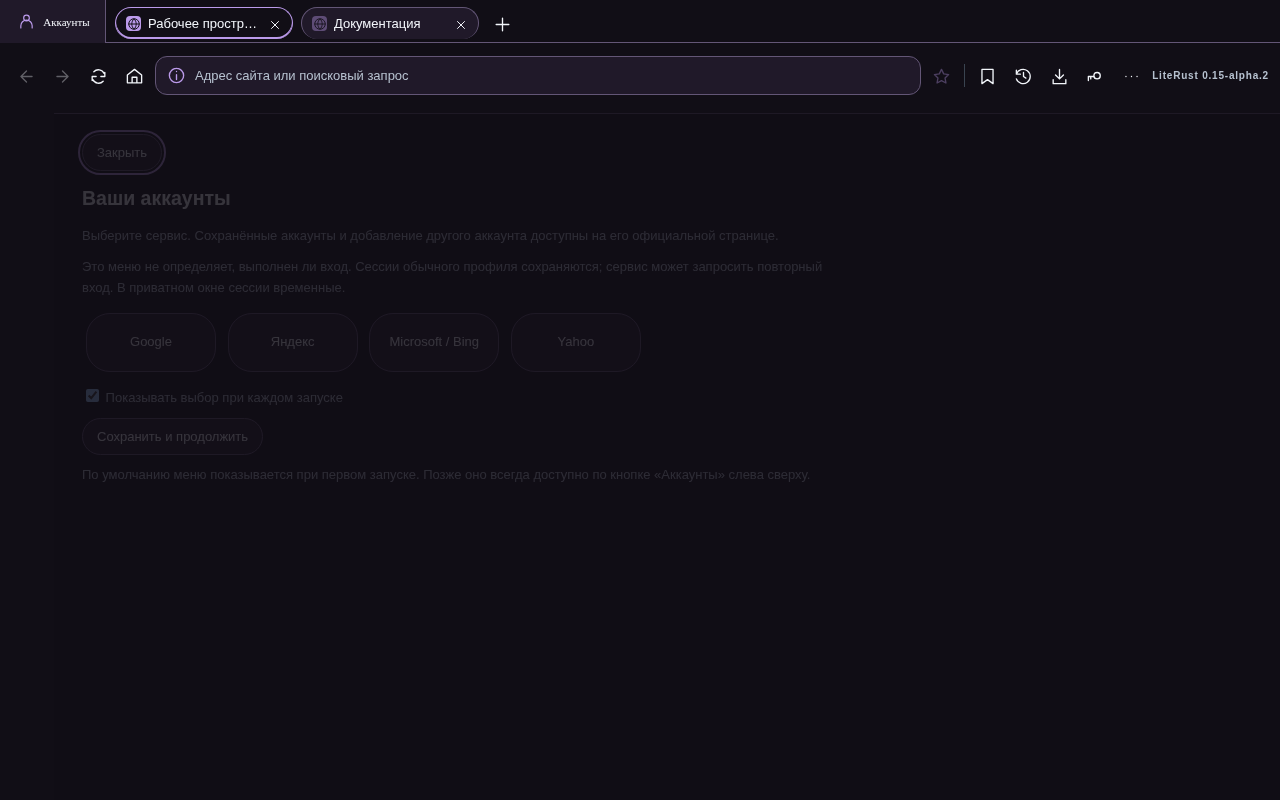
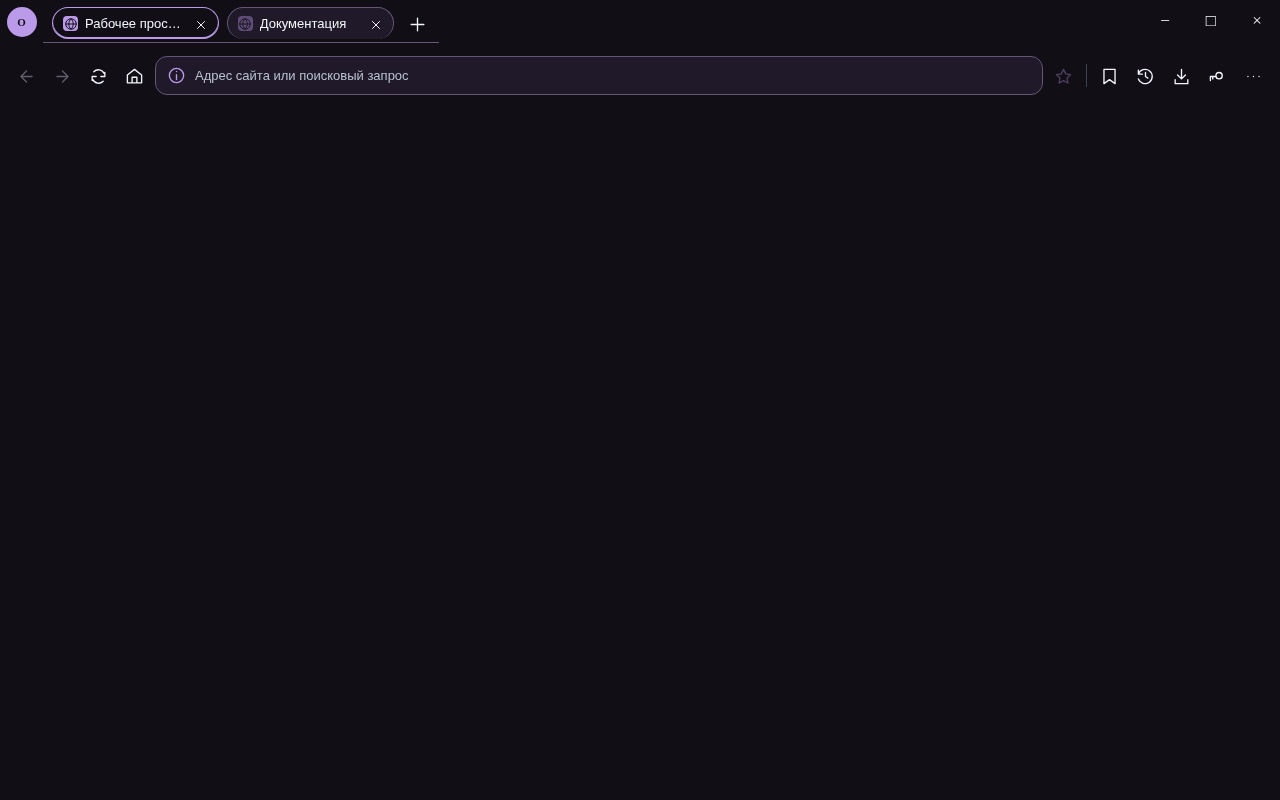
Prepare 0.16 release with native frame, session isolation tests and measured benchmark

diff --git a/ui/toolbar.html b/ui/toolbar.html
@@ -127,7 +127,7 @@ html,body{height:100%;width:100%;margin:0;overflow:hidden;background:var(--bg);c
 <p><label><input id="browser-background_links" type="checkbox"> Открывать новые ссылки в фоне</label></p>
 <p><label>Масштаб страниц <select id="browser-zoom_percent"><option>50</option><option>75</option><option>90</option><option>100</option><option>110</option><option>125</option><option>150</option><option>175</option><option>200</option></select> %</label></p>
 <p><label><input id="browser-history_enabled" type="checkbox"> Записывать историю посещений</label></p><small>Выключение не удаляет старую историю и не включает приватный режим: вкладки и данные сайтов сохраняются.</small>
-<p><button id="save-browser-settings">Сохранить настройки браузера</button><button id="reset-browser-settings">Сбросить настройки браузера</button></p><small id="browser-settings-status" role="status"></small></article><article data-category="search"><h3>Поиск из адресной строки</h3><p>Выберите сервис для запросов из адресной строки и новой вкладки.</p><label for="search-engine">Поисковая система</label><select id="search-engine" style="padding:10px;border-radius:10px;background:var(--surface);color:var(--text);border:1px solid var(--line)"><option value="google">Google</option><option value="yandex">Яндекс</option><option value="duckduckgo">DuckDuckGo</option><option value="bing">Bing</option><option value="brave">Brave Search</option></select><small>Поисковик не меняет движок WebView2 и доверие TLS-сертификатам.</small></article><article data-category="privacy"><h3>История и данные сайтов</h3><button class="settings-action-row" data-menu="clear-history"><span><strong>Очистить историю</strong><small>Удаление записей после подтверждения</small></span><span data-icon="chevron"></span></button><button class="settings-action-row" data-menu="clear-site-data"><span><strong>Очистить cookies и кэш</strong><small>Вы выйдете из аккаунтов сайтов</small></span><span data-icon="chevron"></span></button><button class="settings-action-row" data-menu="new-private-window"><span><strong>Открыть приватное окно</strong><small>Отдельная временная сессия</small></span><span data-icon="chevron"></span></button><p>Для отключения записи истории откройте раздел «Запуск и вкладки».</p></article><article data-category="privacy"><h3>Фильтрация рекламы</h3><button data-menu="toggle-network-blocking">Сетевой фильтр</button><button data-menu="toggle-cosmetic-filter">Косметический фильтр</button><small>Экспериментальные функции. Могут влиять на работу некоторых сайтов.</small></article><article data-category="performance"><h3>Управление памятью</h3><button data-menu="cycle-memory-mode">Бюджет памяти</button><button data-menu="toggle-auto-discard">Автовыгрузка вкладок</button><button data-menu="discard-background">Освободить память</button><p>Автовыгрузка отключена по умолчанию. Выгруженные страницы могут потерять несохранённые формы и воспроизведение.</p><p id="settings-performance-state" role="status"></p></article><article data-category="network"><h3>Подключение через VPN</h3><p>Управляйте серверами и областью подключения в VPN-хабе.</p><button id="settings-vpn">Открыть VPN-хаб</button></article><article data-category="network"><h3>Российские TLS-сертификаты</h3><p>Смена поисковика не меняет доверие сертификатам. LiteRust использует WebView2 и проверку сертификатов Windows. Для сайта медицинской аттестации может потребоваться установка официальных корневых сертификатов в Windows.</p><p>Установка корневого сертификата расширяет доверие всей системы. Используйте только официальный источник и проверьте сведения об издателе.</p><button id="tls-help">Инструкции Госуслуг</button><button id="medical-site">Открыть сайт аттестации напрямую</button><p>LiteRust не отключает проверку TLS. Если ошибка остаётся, проверьте дату Windows и обратитесь в поддержку сайта.</p></article><article data-category="appearance"><h3>Боковая панель</h3><label for="sidebar-mode">Как открывать</label><select id="sidebar-mode"><option value="click">По нажатию</option><option value="hover">При наведении</option><option value="pinned">Закрепить</option></select><label for="sidebar-width">Ширина раскрытой панели</label><input id="sidebar-width" type="range" min="220" max="320" step="4"><output id="sidebar-width-value"></output><p>Временная шторка накладывается на страницу. Закреплённая панель занимает отдельное место. Раскрытие доступно слева и справа.</p><div id="sidebar-items"></div><button id="sidebar-reset">Сбросить панель</button></article><article data-category="icons"><h3>Свои иконки</h3><label for="icon-target">Что изменить</label><select id="icon-target" style="width:100%"><option value="app">LiteRust в Windows</option><option value="site">Сайт на новой вкладке</option></select><p><input id="icon-site" type="url" placeholder="Точный адрес закладки https://…" style="width:100%"></p><input id="icon-file" type="file" accept="image/png,image/jpeg,image/webp"><p><img id="icon-preview" width="48" height="48" alt="Предпросмотр значка" hidden></p><button id="icon-reset">Стандартный значок</button><small id="icon-status" role="status">PNG, JPEG или WebP · до 5 МБ · до 32 значков</small></article><article data-category="shortcuts"><h3>Ваши сочетания клавиш</h3><p>Нажмите «Изменить», затем нужные клавиши. Можно использовать Ctrl, Alt, Shift и F1–F12. Esc отменяет запись. Системные сочетания Windows и команды копирования/вставки не переназначаются.</p><label for="shortcut-search">Найти команду</label><input id="shortcut-search" type="search" placeholder="Например: вкладка или Ctrl+T"><p id="shortcut-status" role="status" aria-live="polite">Изменения действуют во всех вкладках этого окна и сохраняются для следующего запуска.</p><div id="shortcut-list"></div><button id="shortcut-reset-all">Восстановить стандартные сочетания</button></article><article data-category="about"><h3>LiteRust 0.15.0-alpha.4</h3><p>Экспериментальный браузер для Windows на Rust и Microsoft WebView2.</p><button id="settings-release">Открыть выпуски на GitHub</button><small>Версия установщика указана в описании выпуска. Обновление выполняется запуском нового установщика.</small></article></div><div id="settings-pending" hidden><span>Есть несохранённые настройки запуска.</span><button id="settings-back-to-draft">Вернуться к ним</button></div></div></div></section>
+<p><button id="save-browser-settings">Сохранить настройки браузера</button><button id="reset-browser-settings">Сбросить настройки браузера</button></p><small id="browser-settings-status" role="status"></small></article><article data-category="search"><h3>Поиск из адресной строки</h3><p>Выберите сервис для запросов из адресной строки и новой вкладки.</p><label for="search-engine">Поисковая система</label><select id="search-engine" style="padding:10px;border-radius:10px;background:var(--surface);color:var(--text);border:1px solid var(--line)"><option value="google">Google</option><option value="yandex">Яндекс</option><option value="duckduckgo">DuckDuckGo</option><option value="bing">Bing</option><option value="brave">Brave Search</option></select><small>Поисковик не меняет движок WebView2 и доверие TLS-сертификатам.</small></article><article data-category="privacy"><h3>История и данные сайтов</h3><button class="settings-action-row" data-menu="clear-history"><span><strong>Очистить историю</strong><small>Удаление записей после подтверждения</small></span><span data-icon="chevron"></span></button><button class="settings-action-row" data-menu="clear-site-data"><span><strong>Очистить cookies и кэш</strong><small>Вы выйдете из аккаунтов сайтов</small></span><span data-icon="chevron"></span></button><button class="settings-action-row" data-menu="new-private-window"><span><strong>Открыть приватное окно</strong><small>Отдельная временная сессия</small></span><span data-icon="chevron"></span></button><p>Для отключения записи истории откройте раздел «Запуск и вкладки».</p></article><article data-category="privacy"><h3>Фильтрация рекламы</h3><button data-menu="toggle-network-blocking">Сетевой фильтр</button><button data-menu="toggle-cosmetic-filter">Косметический фильтр</button><small>Экспериментальные функции. Могут влиять на работу некоторых сайтов.</small></article><article data-category="performance"><h3>Управление памятью</h3><button data-menu="cycle-memory-mode">Бюджет памяти</button><button data-menu="toggle-auto-discard">Автовыгрузка вкладок</button><button data-menu="discard-background">Освободить память</button><p>Автовыгрузка отключена по умолчанию. Выгруженные страницы могут потерять несохранённые формы и воспроизведение.</p><p id="settings-performance-state" role="status"></p></article><article data-category="network"><h3>Подключение через VPN</h3><p>Управляйте серверами и областью подключения в VPN-хабе.</p><button id="settings-vpn">Открыть VPN-хаб</button></article><article data-category="network"><h3>Российские TLS-сертификаты</h3><p>Смена поисковика не меняет доверие сертификатам. LiteRust использует WebView2 и проверку сертификатов Windows. Для сайта медицинской аттестации может потребоваться установка официальных корневых сертификатов в Windows.</p><p>Установка корневого сертификата расширяет доверие всей системы. Используйте только официальный источник и проверьте сведения об издателе.</p><button id="tls-help">Инструкции Госуслуг</button><button id="medical-site">Открыть сайт аттестации напрямую</button><p>LiteRust не отключает проверку TLS. Если ошибка остаётся, проверьте дату Windows и обратитесь в поддержку сайта.</p></article><article data-category="appearance"><h3>Боковая панель</h3><label for="sidebar-mode">Как открывать</label><select id="sidebar-mode"><option value="click">По нажатию</option><option value="hover">При наведении</option><option value="pinned">Закрепить</option></select><label for="sidebar-width">Ширина раскрытой панели</label><input id="sidebar-width" type="range" min="220" max="320" step="4"><output id="sidebar-width-value"></output><p>Временная шторка накладывается на страницу. Закреплённая панель занимает отдельное место. Раскрытие доступно слева и справа.</p><div id="sidebar-items"></div><button id="sidebar-reset">Сбросить панель</button></article><article data-category="icons"><h3>Свои иконки</h3><label for="icon-target">Что изменить</label><select id="icon-target" style="width:100%"><option value="app">LiteRust в Windows</option><option value="site">Сайт на новой вкладке</option></select><p><input id="icon-site" type="url" placeholder="Точный адрес закладки https://…" style="width:100%"></p><input id="icon-file" type="file" accept="image/png,image/jpeg,image/webp"><p><img id="icon-preview" width="48" height="48" alt="Предпросмотр значка" hidden></p><button id="icon-reset">Стандартный значок</button><small id="icon-status" role="status">PNG, JPEG или WebP · до 5 МБ · до 32 значков</small></article><article data-category="shortcuts"><h3>Ваши сочетания клавиш</h3><p>Нажмите «Изменить», затем нужные клавиши. Можно использовать Ctrl, Alt, Shift и F1–F12. Esc отменяет запись. Системные сочетания Windows и команды копирования/вставки не переназначаются.</p><label for="shortcut-search">Найти команду</label><input id="shortcut-search" type="search" placeholder="Например: вкладка или Ctrl+T"><p id="shortcut-status" role="status" aria-live="polite">Изменения действуют во всех вкладках этого окна и сохраняются для следующего запуска.</p><div id="shortcut-list"></div><button id="shortcut-reset-all">Восстановить стандартные сочетания</button></article><article data-category="about"><h3>LiteRust 0.16.0-alpha.1</h3><p>Экспериментальный браузер для Windows на Rust и Microsoft WebView2.</p><button id="settings-release">Открыть выпуски на GitHub</button><small>Версия установщика указана в описании выпуска. Обновление выполняется запуском нового установщика.</small></article></div><div id="settings-pending" hidden><span>Есть несохранённые настройки запуска.</span><button id="settings-back-to-draft">Вернуться к ним</button></div></div></div></section>
 <section id="vpn" class="hub-panel vpn-workspace" hidden aria-label="VPN-хаб">
 <div class="vpn-servers">
   <div class="vpn-title"><div><span class="eyebrow">LITERUST / VPN</span><h2>Серверы</h2></div><button id="vpn-open-import" title="Добавить ключ или подписку" aria-label="Добавить серверы">＋</button></div>
@@ -248,7 +248,7 @@ function render(){
   document.getElementById('history').title=`История (${state.history})`;
   document.getElementById('downloads').title=`Загрузки (${state.downloads})`;
   const mark=document.getElementById('mode-badge');
-  mark.textContent=state.private_mode?'ПРИВАТНО':'LiteRust 0.15-alpha.4';
+  mark.textContent=state.private_mode?'ПРИВАТНО':'LiteRust 0.16-alpha.1';
   mark.classList.toggle('private',Boolean(state.private_mode));
   document.getElementById('toggle-network-blocking').textContent='Сетевой AdBlock (ограниченные правила): '+(state.network_blocking?'вкл.':'выкл.');
   document.getElementById('toggle-auto-discard').textContent='Автовыгрузка (потеря форм): '+(state.auto_discard?'вкл.':'выкл.');
@@ -310,7 +310,7 @@ document.getElementById('google-passwords').onclick=openGooglePasswords;
 document.getElementById('google-passwords-menu').onclick=openGooglePasswords;
 document.getElementById('google-passwords-info').onclick=()=>{
   menu.classList.remove('open');
-  alert('Google Password Manager: официальный сайт passwords.google.com можно открывать в любом браузере.\n\nВ LiteRust 0.15-alpha.4 кнопка открывает Google Password Manager во внешнем браузере. Пароли остаются в Google.\n\nВажно: Google пока не предоставляет публичный API, позволяющий LiteRust автоматически заполнять пароли из Google на произвольных сайтах. WebView2 не имеет доступа к хранилищу Chrome. Наша программа не читает, не копирует и не хранит пароли Google.');
+  alert('Google Password Manager: официальный сайт passwords.google.com можно открывать в любом браузере.\n\nВ LiteRust 0.16-alpha.1 кнопка открывает Google Password Manager во внешнем браузере. Пароли остаются в Google.\n\nВажно: Google пока не предоставляет публичный API, позволяющий LiteRust автоматически заполнять пароли из Google на произвольных сайтах. WebView2 не имеет доступа к хранилищу Chrome. Наша программа не читает, не копирует и не хранит пароли Google.');
 };
 document.getElementById('export-bookmarks').onclick=()=>{
   menu.classList.remove('open');
@@ -425,7 +425,7 @@ function updateHub(){
   document.getElementById('vpn-import-note').textContent=enabled?'Для замены списка серверов сначала отключите VPN.':state.private_mode?'Изменяйте ключи в обычном окне.':'Ключи защищены учётной записью Windows. После импорта поле очищается.';
   document.getElementById('vpn-connect').disabled=!nodes.length||busy||state.private_mode;
   document.getElementById('vpn-disconnect').disabled=!enabled||busy||state.private_mode;
-  document.getElementById('profile-account').title=state.private_mode?'Постоянный аккаунт доступен в обычном окне':'Открыть меню аккаунтов';
+  document.getElementById('profile-account').title=state.private_mode?'Приватное окно':'Локальный профиль: '+currentLocalProfile().name;
 }
 document.getElementById('vpn-import').onclick=()=>{const field=document.getElementById('vpn-key');const value=field.value.trim();if(!value)return;if(new TextEncoder().encode(value).length>1048576){window.browserNotice('Слишком большой список');return;}send('vpn_import',{value,kind:document.getElementById('vpn-input-kind').value});field.value='';document.getElementById('vpn-import-dialog').hidden=true;};
 function applyVpn(enabled){if(confirm('Перезапустить LiteRust для изменения VPN? Несохранённые формы будут потеряны. Завершите загрузки и закройте другие окна LiteRust.'))send('vpn_apply',{enabled,system:document.getElementById('vpn-scope').value==='system',selected:Number(document.getElementById('vpn-server').value)||0});}

diff --git a/ui/dock.html b/ui/dock.html
@@ -17,7 +17,7 @@ body.motion-off *{animation:none!important;transition:none!important}.ui-icon{wi
 <button data-action="show_settings" title="Настройки" aria-label="Настройки"><span data-icon="settings"></span></button>
 </nav><script>
 /* APPEARANCE_SCRIPT */
-function send(action,data={}){window.ipc?.postMessage(JSON.stringify({action,...data}));}
+function send(action,data={}){if(action==='dock_expanded')data.animate=!document.body.classList.contains('motion-off')&&!matchMedia('(prefers-reduced-motion:reduce)').matches;window.ipc?.postMessage(JSON.stringify({action,...data}));}
 document.querySelectorAll('[data-action]').forEach(b=>b.onclick=()=>send(b.dataset.action));
 let sidebarState={mode:'click',width:264,order:[],hidden:[]},expanded=false,hoverTimer;
 const nav=document.querySelector('nav');

diff --git a/src/main.rs b/src/main.rs
@@ -1,4 +1,4 @@
-//! LiteRust Browser 0.15-alpha.4: per-site network-filter exceptions, permission prompts,
+//! LiteRust Browser 0.16-alpha.1: per-site network-filter exceptions, permission prompts,
 //! URL hygiene and low-memory background views. Web rendering is Edge WebView2.
 #![cfg_attr(not(debug_assertions), windows_subsystem = "windows")]
 
@@ -85,6 +85,8 @@ enum UiCommand {
     },
     DockExpanded {
         open: bool,
+        #[serde(default)]
+        animate: bool,
     },
     ProfileCreate {
         name: String,
@@ -326,7 +328,15 @@ struct LivePage {
     loading: bool,
 }
 
+struct DrawerAnimation {
+    from: f64,
+    to: f64,
+    started: std::time::Instant,
+}
+
 struct Browser {
+    dock_animation: Option<DrawerAnimation>,
+    dock_width: std::cell::Cell<f64>,
     dock_expanded: bool,
     local_profiles: literust_browser::local_profiles::Catalog,
     shortcuts: std::rc::Rc<std::cell::RefCell<literust_browser::shortcuts::Runtime>>,
@@ -381,6 +391,8 @@ impl Browser {
             .saturating_add(1)
             .max(1);
         Self {
+            dock_animation: None,
+            dock_width: std::cell::Cell::new(54.0),
             dock_expanded: false,
             local_profiles: literust_browser::local_profiles::Catalog::load(&app_root())
                 .unwrap_or_default(),
@@ -1150,15 +1162,45 @@ impl Browser {
                 }
             }
             UiCommand::SetSidebar { value } => {
+                self.dock_animation = None;
                 self.data.sidebar = value.validated();
                 self.dock_expanded = false;
                 self.persist();
                 self.resize();
                 self.sync_toolbar();
             }
-            UiCommand::DockExpanded { open } => {
+            UiCommand::DockExpanded { open, animate } => {
                 self.dock_expanded = open;
-                self.resize();
+                let (bounds, _) = self.layout_bounds();
+                let target = bounds
+                    .size
+                    .to_logical::<f64>(self.window.scale_factor())
+                    .width;
+                if animate
+                    && self.data.customization.animations
+                    && matches!(
+                        self.data.dock_position,
+                        layout::DockPosition::Left | layout::DockPosition::Right
+                    )
+                {
+                    self.dock_animation = Some(DrawerAnimation {
+                        from: self.dock_width.get(),
+                        to: target,
+                        started: std::time::Instant::now(),
+                    });
+                } else {
+                    self.dock_animation = None;
+                    self.dock_width.set(target);
+                    let _ = self.dock.set_bounds(bounds);
+                }
+                #[cfg(windows)]
+                {
+                    let _ = windows_platform::raise(if self.appearance_open {
+                        &self.toolbar
+                    } else {
+                        &self.dock
+                    });
+                }
                 self.sync_toolbar();
             }
             UiCommand::ProfileCreate { name } => {
@@ -1966,6 +2008,31 @@ impl Browser {
         }
     }
 
+    fn animate_drawer(&mut self) {
+        let Some(animation) = self.dock_animation.as_ref() else {
+            return;
+        };
+        let progress = (animation.started.elapsed().as_secs_f64() / 0.2).min(1.0);
+        let width =
+            animation.from + (animation.to - animation.from) * (1.0 - (1.0 - progress).powi(3));
+        let (bounds, _) = self.layout_bounds();
+        let scale = self.window.scale_factor();
+        let mut position = bounds.position.to_logical::<f64>(scale);
+        let size = bounds.size.to_logical::<f64>(scale);
+        if matches!(self.data.dock_position, layout::DockPosition::Right) {
+            position.x += size.width - width;
+        }
+        if (width - self.dock_width.get()).abs() >= 0.5 || progress >= 1.0 {
+            let _ = self
+                .dock
+                .set_bounds(rect(position.x, position.y, width, size.height));
+            self.dock_width.set(width);
+        }
+        if progress >= 1.0 {
+            self.dock_animation = None;
+        }
+    }
+
     fn resize(&self) {
         let _ = self.toolbar.evaluate_script(&format!(
             "window.updateWindowState?.({});",
@@ -1982,6 +2049,12 @@ impl Browser {
             self.toolbar_height(),
         ));
         let (dock_bounds, bounds) = self.layout_bounds();
+        self.dock_width.set(
+            dock_bounds
+                .size
+                .to_logical::<f64>(self.window.scale_factor())
+                .width,
+        );
         let _ = self.dock.set_bounds(dock_bounds);
         for page in self.pages.values() {
             let _ = page.view.set_bounds(bounds);
@@ -2188,7 +2261,7 @@ fn main() {
     if fs::create_dir_all(&diagnostics).is_ok() {
         let _ = fs::write(
             diagnostics.join("startup.log"),
-            b"LiteRust 0.15.0-alpha.4 startup\n",
+            b"LiteRust 0.16.0-alpha.1 startup\n",
         );
     }
     if let Err(error) = run() {
@@ -2225,6 +2298,19 @@ fn run() -> Result<(), Box<dyn std::error::Error>> {
         return Err(std::io::Error::other("Локальный профиль не найден").into());
     }
     let _ = CURRENT_PROFILE.set(selected);
+    if !std::env::args().any(|a| a == "--private") {
+        literust_browser::local_profiles::Catalog::edit(&app_root(), |c| {
+            if !c.profiles.iter().any(|p| p.id == current_profile_id()) {
+                return Err(std::io::Error::other("Профиль больше не существует"));
+            }
+            let path = profile_root();
+            let archived = app_root().join("ProfileTrash").join(current_profile_id());
+            if !path.exists() && archived.exists() {
+                fs::rename(archived, path)?;
+            }
+            Ok(())
+        })?;
+    }
     fs::create_dir_all(profile_root().join("diagnostics"))?;
 
     let private_mode = std::env::args().any(|arg| arg == "--private");
@@ -2259,9 +2345,9 @@ fn run() -> Result<(), Box<dyn std::error::Error>> {
             .ok(),
         )
         .with_title(if private_mode {
-            "LiteRust 0.15-alpha.4 — приватное окно"
+            "LiteRust 0.16-alpha.1 — приватное окно"
         } else {
-            "LiteRust Browser 0.15-alpha.4"
+            "LiteRust Browser 0.16-alpha.1"
         })
         .with_inner_size(LogicalSize::new(1280.0, 800.0))
         .with_min_inner_size(LogicalSize::new(690.0, 400.0))
@@ -2594,6 +2680,8 @@ fn run() -> Result<(), Box<dyn std::error::Error>> {
             }
             _ => {}
         }
+        browser.animate_drawer();
+        if browser.dock_animation.is_some(){*control_flow=ControlFlow::WaitUntil(std::time::Instant::now()+std::time::Duration::from_millis(16));}
         if browser.close_requested {
             browser.persist();
             #[cfg(windows)] { browser.system_vpn.take();browser.vpn_tunnel.take(); }

diff --git a/src/session_self_test.rs b/src/session_self_test.rs
@@ -1,0 +1,94 @@
+//! Explicit CI-only WebView2 storage test with synthetic data and loopback origin.
+use std::{
+    io::Write,
+    time::{Duration, Instant},
+};
+use tao::{
+    event::Event,
+    event_loop::{ControlFlow, EventLoopBuilder},
+    platform::run_return::EventLoopExtRunReturn,
+    window::WindowBuilder,
+};
+use wry::{PageLoadEvent, WebContext, WebViewBuilder};
+#[derive(Debug)]
+enum TestEvent {
+    Loaded,
+    Result(String),
+}
+pub fn run(phase: &str) -> Result<(), Box<dyn std::error::Error>> {
+    let (id, write, expected) = match phase {
+        "write-a" => ("a", true, "alpha"),
+        "read-a" => ("a", false, "alpha"),
+        "empty-b" => ("b", false, ""),
+        "write-b" => ("b", true, "beta"),
+        "read-b" => ("b", false, "beta"),
+        _ => return Err("Unknown session test phase".into()),
+    };
+    let root =
+        std::path::PathBuf::from(std::env::var_os("LOCALAPPDATA").ok_or("LOCALAPPDATA missing")?)
+            .join("LiteRustSessionTest");
+    std::fs::create_dir_all(&root)?;
+    let mut events = EventLoopBuilder::<TestEvent>::with_user_event().build();
+    let window = WindowBuilder::new()
+        .with_title("LiteRust storage self-test")
+        .build(&events)?;
+    let mut context = WebContext::new(Some(root.join(id)));
+    let proxy = events.create_proxy();
+    let titles = proxy.clone();
+    let view = WebViewBuilder::new_with_web_context(&mut context)
+        .with_url("http://127.0.0.1:37643/")
+        .with_on_page_load_handler(move |event, _| {
+            if matches!(event, PageLoadEvent::Finished) {
+                let _ = proxy.send_event(TestEvent::Loaded);
+            }
+        })
+        .with_document_title_changed_handler(move |title| {
+            if let Some(value) = title.strip_prefix("TEST:") {
+                let _ = titles.send_event(TestEvent::Result(value.to_string()));
+            }
+        })
+        .build(&window)?;
+    let expected = serde_json::to_string(expected)?;
+    let script = format!(
+        r#"(()=>{{const writing={write},expected={expected};if(writing){{localStorage.setItem('fixture',expected);document.cookie='fixture='+expected+'; Max-Age=86400; Path=/; SameSite=Lax';}}const req=indexedDB.open('fixture',1);req.onupgradeneeded=()=>req.result.createObjectStore('values');req.onerror=()=>document.title='TEST:FAIL';req.onsuccess=()=>{{const db=req.result,tx=db.transaction('values',writing?'readwrite':'readonly'),store=tx.objectStore('values');if(writing)store.put(expected,'fixture');const read=store.get('fixture');let value='';read.onsuccess=()=>value=read.result||'';tx.oncomplete=()=>{{const cookie=document.cookie.split('; ').find(c=>c.startsWith('fixture='))?.slice(8)||'';const ok=(localStorage.getItem('fixture')||'')===expected&&cookie===expected&&value===expected;db.close();document.title='TEST:'+(ok?'PASS':'FAIL');}};tx.onerror=()=>document.title='TEST:FAIL';}};}})();"#
+    );
+    let started = Instant::now();
+    let mut sent = false;
+    let mut result = None;
+    let mut settled = None;
+    events.run_return(|event, _, flow| {
+        *flow = ControlFlow::WaitUntil(Instant::now() + Duration::from_millis(100));
+        match event {
+            Event::UserEvent(TestEvent::Loaded) if !sent => {
+                sent = true;
+                if view.evaluate_script(&script).is_err() {
+                    result = Some(false);
+                    *flow = ControlFlow::Exit;
+                }
+            }
+            Event::UserEvent(TestEvent::Result(value)) => {
+                result = Some(value == "PASS");
+                settled = Some(Instant::now());
+            }
+            _ => {}
+        }
+        if started.elapsed() > Duration::from_secs(30)
+            || settled.is_some_and(|time: Instant| time.elapsed() > Duration::from_secs(2))
+        {
+            *flow = ControlFlow::Exit;
+        }
+    });
+    drop(view);
+    drop(context);
+    let pass = result == Some(true);
+    let mut log = std::fs::OpenOptions::new()
+        .create(true)
+        .append(true)
+        .open(root.join("results.log"))?;
+    writeln!(log, "{phase}: {}", if pass { "PASS" } else { "FAIL" })?;
+    if pass {
+        Ok(())
+    } else {
+        Err("WebView2 cookie/localStorage/IndexedDB check failed".into())
+    }
+}

diff --git a/docs/modernization/REPORT.md b/docs/modernization/REPORT.md
@@ -1,0 +1,44 @@
+# LiteRust 0.16.0-alpha.1: отчёт о модернизации
+
+## Реализовано
+
+- Интегрированная верхняя панель обычного Tao-окна без отдельного системного заголовка. Кнопки закрытия, сворачивания, разворачивания/восстановления; native drag и двойной щелчок. Открытые края для штатного resize; координаты в logical units. Старый Borderless fullscreen и его shortcut удалены. Остальные назначения мигрируют без сброса.
+- До 16 локальных профилей. Создание, переименование, открытие, собственное фото и стандартный аватар-инициал. Основной профиль использует прежний путь; новые — Profiles/<random-id>. Отдельные WebView2/Interface-v2, метаданные и VPN-конфигурация. Каталог профилей защищён DPAPI, блокировкой и резервной копией.
+- Дополнительный закрытый профиль можно убрать после подтверждения; его данные перемещаются в ProfileTrash. Текущий/основной профиль не удаляется. Это восстановимое удаление, не безвозвратная очистка.
+- Статус внешних аккаунтов — «неизвестен». Имена и аватары относятся к локальному профилю. Официальные ссылки сервисов сохранены; внешнее фото предлагается загрузить вручную.
+- Шторка: по нажатию, hover с задержкой, закреплённая; скрытие, порядок, drag/drop и ширина. Временный режим сохраняет геометрию страницы. Z-order нативных child windows учитывается. Анимация 200 мс меняет только bounds панели; в покое её таймер отсутствует. Reduced motion и пользовательское отключение учитываются.
+- Отдельные быстрые сайты: добавление, выбор из закладок, редактирование, удаление, перестановка; favicon напрямую с HTTPS-origin, без стороннего сервиса. Первая компоновка использует прежние закладки, не удаляя их.
+- Редактор главной на 12-колоночной сетке: логотип, часы, дата, заголовок, подпись, поиск, сайты и почта/профиль. Перемещение, ширина (мышью или ползунком), скрытие/возврат, заголовки, отмена до 20 шагов, сброс и сохранение. На узком окне одна колонка. Сетка не допускает свободных пересечений и ухода за экран.
+- Поиск с лупой и Enter использует единый Rust-обработчик адресов/запросов; поисковик не меняется. Темы, акцент, обои, собственные иконки и настройки анимаций сохранены.
+
+## Архитектура и данные
+
+Новые модули: `src/local_profiles.rs`, `src/home.rs`; интерфейс редактора — `ui/home-editor.js`. Модели панели находятся в `src/layout.rs`. Изменены `src/main.rs`, `src/storage.rs`, `src/newtab.rs`, `src/shortcuts.rs`, `src/windows_platform.rs`, `ui/toolbar.html`, `ui/dock.html`, `ui/start.html`.
+
+Привилегированный IPC остаётся у toolbar/dock. У сайтов его нет. Команды главной идут через ограниченный внутренний URL; проверяются текущая внутренняя страница, tab ID, generation, действие, размер и модель. Текст экранируется, параметры сетки/ссылок валидируются. Настройка главной не пересоздаёт движок. Cookie-данные остаются под управлением WebView2.
+
+Для основного профиля переноса каталогов не происходит. Старый BrowserData читается через serde defaults; прежний shortcut fullscreen удаляется отдельно. Закладки и история сохраняются. Новые параметры home/sidebar находятся в защищённых метаданных профиля. Аватары — в защищённом каталоге профилей; физическое хранение ещё не разнесено на отдельные файлы для каждого типа данных.
+
+## Проверки
+
+Локально: 64 Rust-теста; Windows x64 Clippy all-targets с `-D warnings`; статическая проверка исходников; UI-регрессии настроек, аккаунтов/инструментов, VPN, вкладок, горячих клавиш, окна, профилей, шторки и редактора; CSP/script injection проверки. Все перечисленные проверки прошли.
+
+Windows Actions: подготовлены нативные проверки отсутствия caption, кнопок окна, горячих клавиш, отсутствия старого fullscreen, установки/обновления/ярлыков и отдельный синтетический тест cookies/localStorage/IndexedDB между запусками и профилями. Результат выпуска будет добавлен после завершения.
+
+Ручная проверка на настоящей Windows: не выполнялась. Linux/Chromium-предпросмотр не считается проверкой Win32/WebView2.
+
+## Производительность
+
+Из очевидных лишних операций убрана повторная перестройка списков профилей, клавиш и панели при неизменившемся состоянии. Раскрытие шторки не меняет bounds страниц. Новые тяжёлые фреймворки/зависимости не добавлены.
+
+Подготовлен `tools/benchmark-release-windows.ps1`: 0.15.0-alpha.4 и 0.16.0-alpha.1, по 3 независимых запуска, 5 приватных внутренних вкладок, по 3 замера. PrivateMiB — private committed memory, сумма Working Set дважды учитывает общие страницы. StartupReadyMs включает polling 200 мс, FourTabCommandsMs — искусственные паузы. Это ограниченный CI-сценарий, не измерение всех сайтов и не сравнение с Chrome/Edge. Числа будут добавлены после выполнения; улучшение ОЗУ пока не заявляется.
+
+## Ограничения и оставшиеся проверки
+
+- Открытие другого профиля создаёт отдельное окно. Повторное открытие уже занятого профиля выдаёт ошибку блокировки; фокусировка существующего окна не реализована.
+- Безвозвратная очистка архивированных профилей через UI и автоматическое восстановление каталога profiles.json из .bak не реализованы; повреждённый каталог не перезаписывается пустым.
+- Нет OAuth-клиентов/официального доступа к внешним аватарам и достоверному статусу входа. Google может блокировать embedded WebView; ни вечная сессия, ни успешный вход не обещаются.
+- Snap Layouts при hover над HTML-кнопкой не заявляется. Multi-monitor, DPI-переходы, drag/double-click/resize требуют ручной Windows-приёмки.
+- Модель редактора — перестановка и ширина по сетке, не произвольные координаты X/Y. Шторка разворачивается в вертикальных положениях; верхнее/нижнее сохранены как компактные панели.
+- Native overlay ещё требует визуальной проверки с разными сайтами/видео; favicon может отсутствовать или быть заблокирован сайтом.
+- Замеры не доказывают отсутствие всех утечек. Реальные аккаунты и медицинский сайт не проверялись.

diff --git a/docs/releases/0.16.0-alpha.1.md b/docs/releases/0.16.0-alpha.1.md
@@ -1,0 +1,11 @@
+# LiteRust 0.16.0-alpha.1 — локальные профили и рабочее пространство
+
+- Обычное окно без отдельной системной строки: встроенные кнопки, перетаскивание, стандартное разворачивание. Прежний специальный fullscreen удалён; F11 больше не скрывает панели.
+- Локальные профили с отдельными каталогами WebView2, именами и своими фото. Старый основной профиль остаётся на прежнем месте. Статусы сторонних аккаунтов не угадываются.
+- Панель: по нажатию, при наведении или закреплённая; порядок, скрытие и ширина сохраняются в профиле.
+- Быстрые сайты: отдельная плитка «+», добавление из закладок, редактирование, удаление и перетаскивание. Favicon загружается напрямую с HTTPS-сайта без стороннего сервиса.
+- Главная: сеточный редактор, перенос, ширина, видимость, свои заголовки, отмена и сброс. Поиск с лупой использует выбранный поисковик и распознаёт адреса.
+
+Ограничения: открытие профиля запускает отдельное окно; уже открытый профиль защищён блокировкой. Основной/текущий профиль не удаляется. Удалённые дополнительные профили сохраняются в ProfileTrash для восстановления. Внешние аватары и подтверждённые OAuth-статусы не предоставляются без официальной интеграции. Hover Snap Layouts на HTML-кнопке не заявляется; доступны штатные механизмы Windows. Несколько мониторов и реальные входы в сторонние сервисы требуют ручной проверки.
+
+Перед публикацией Windows Actions проверяет управление окном, горячие клавиши, сохранение/изоляцию синтетических cookies, Local Storage и IndexedDB, установку и обновление. Результаты замеров хранятся отдельно; превосходство над другими браузерами не заявляется.

diff --git a/CHANGELOG.md b/CHANGELOG.md
@@ -1,3 +1,7 @@
+# 0.16.0-alpha.1
+
+Интегрированное окно, локальные профили и аватары, настраиваемая шторка, быстрые сайты и редактор главной. [Подробности](docs/releases/0.16.0-alpha.1.md).
+
 # 0.15.0-alpha.4
 
 Настраиваемые горячие клавиши, основные сочетания Chrome и развёрнутое окно при запуске. [Подробнее](docs/releases/0.15.0-alpha.4.md).
